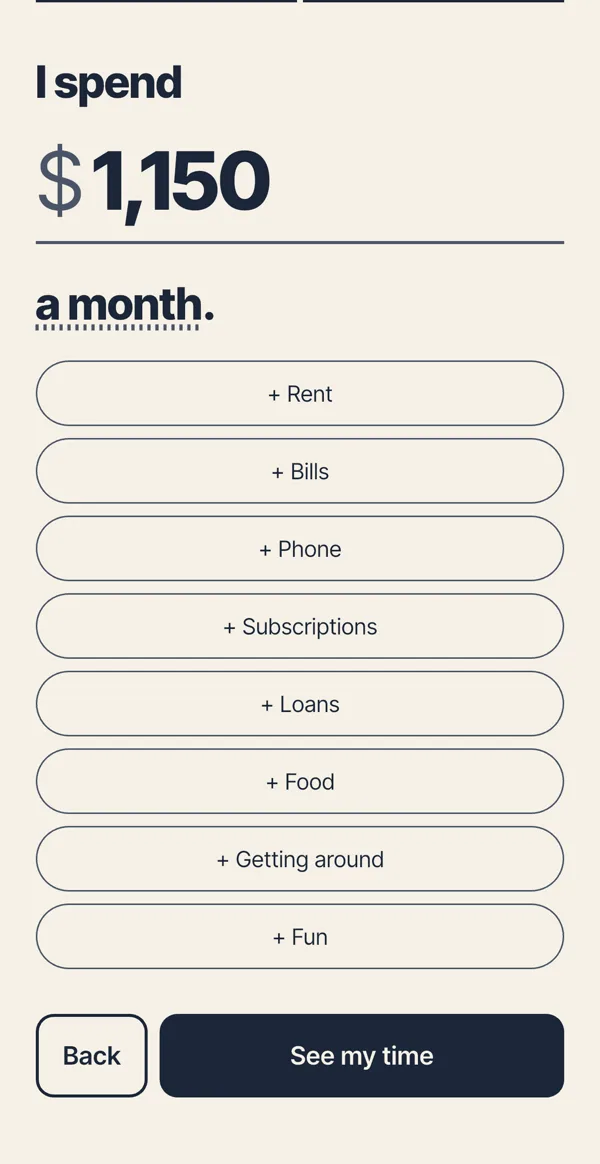
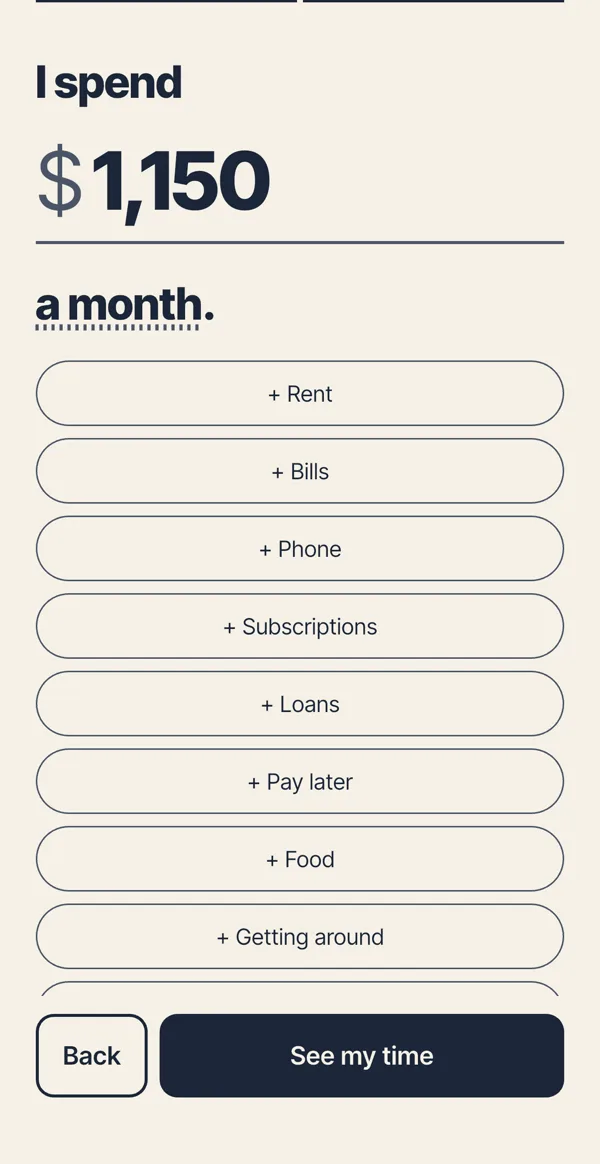
fix(work): the case study shows 1.3.0's finished check-up and setup screens

Changed region(s): [[0.39, 0.7732, 0.63, 0.8351], [0.39, 0.7113, 0.63, 0.7423], [0.42, 0.6495, 0.6, 0.6804]]

diff --git a/src/content/runwayCaseStudy.config.ts b/src/content/runwayCaseStudy.config.ts
@@ -108,7 +108,7 @@ export const runwayCaseStudy = {
         },
         after: {
           src: "assets/runway/now-spend.webp",
-          alt: "1.3.0's check-up: How much money do you have right now? with $14,300 typed in.",
+          alt: "1.3.0's check-up, Today's numbers: the bank account typed as $14,300, was $14,400, and your money $14,300, with a Review button.",
         },
       },
       {
